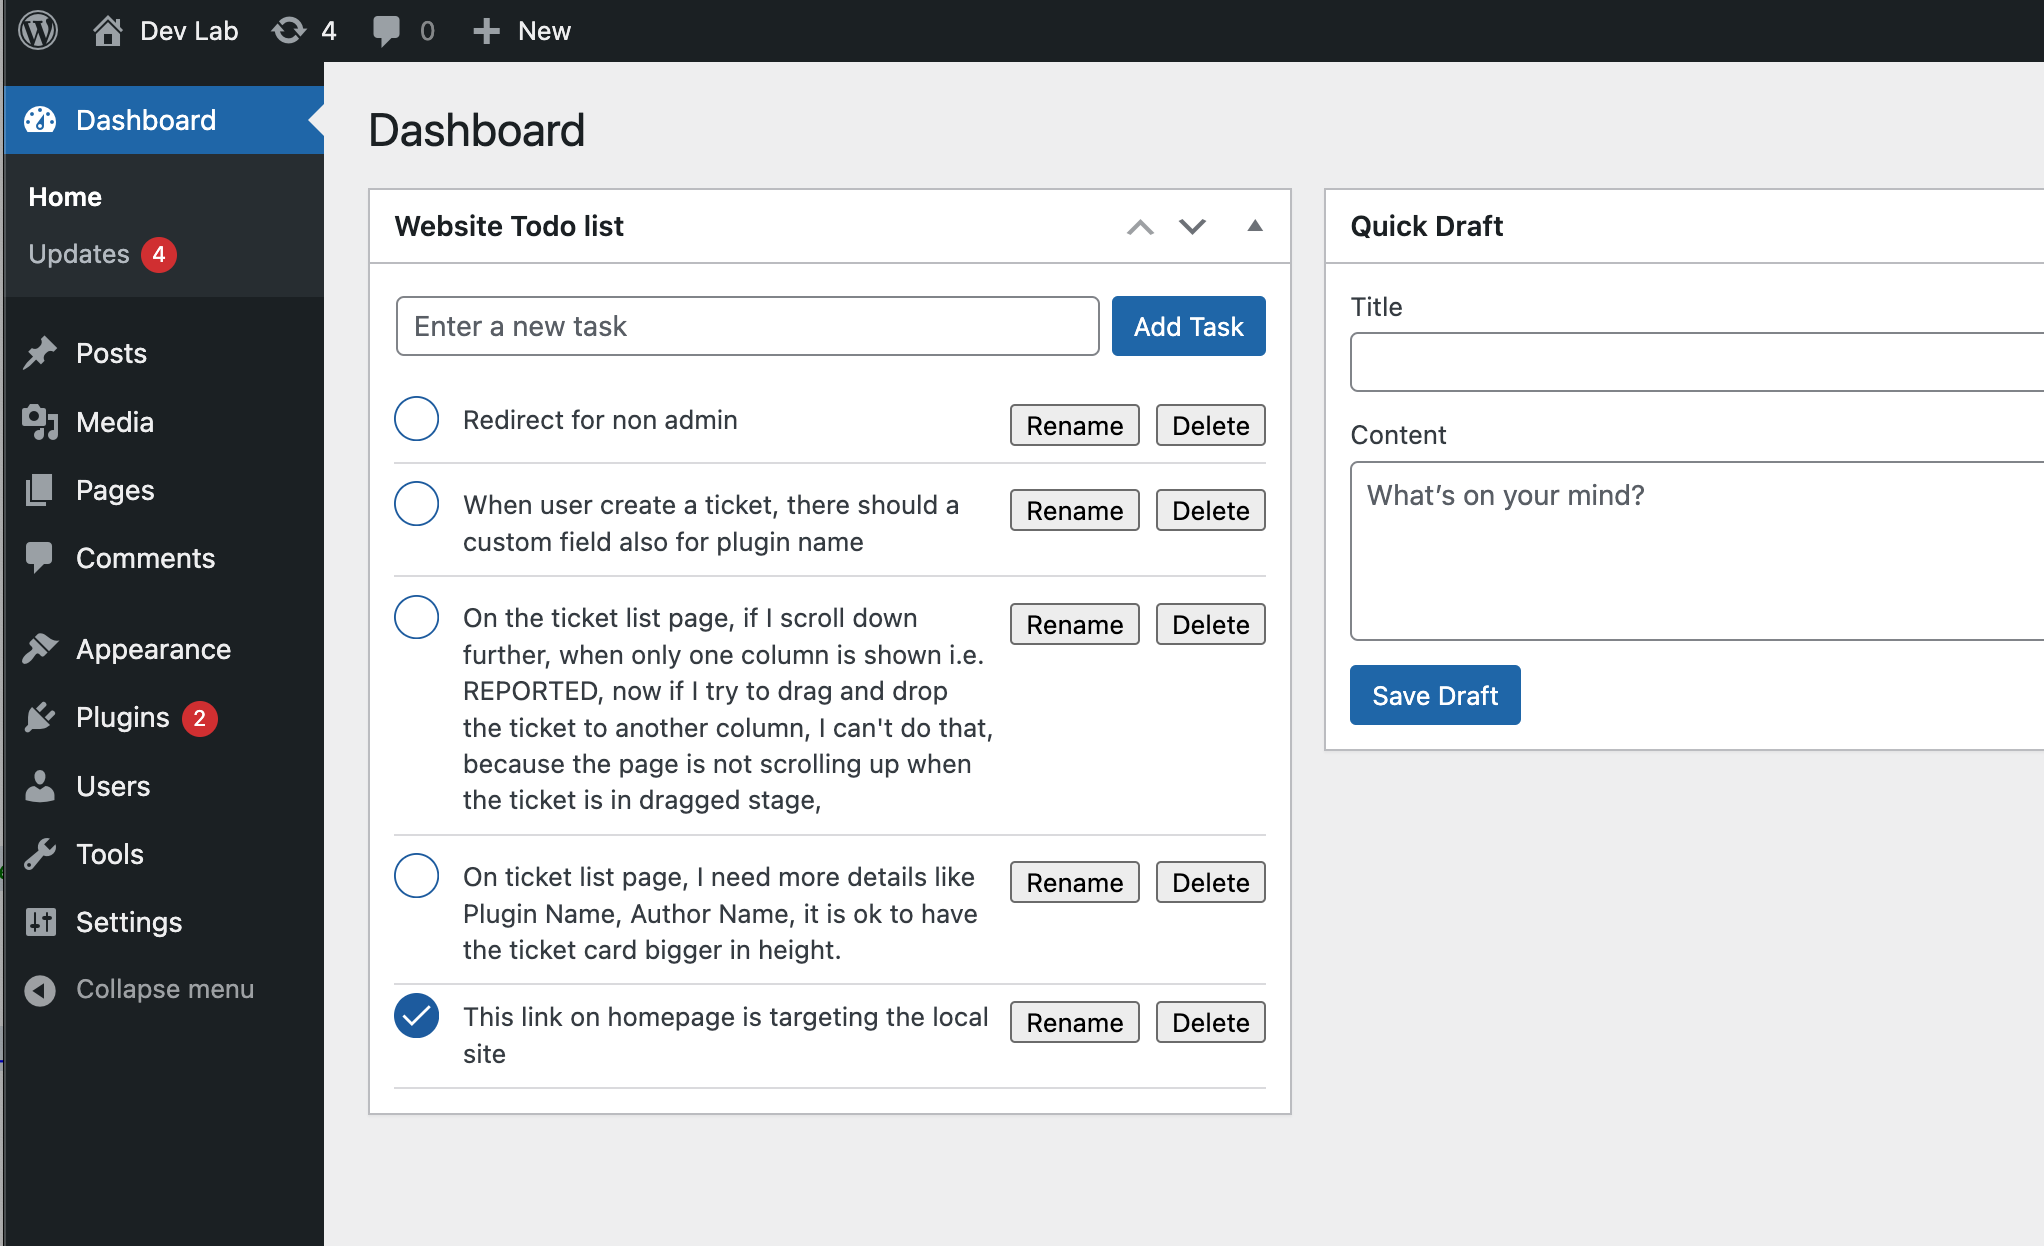
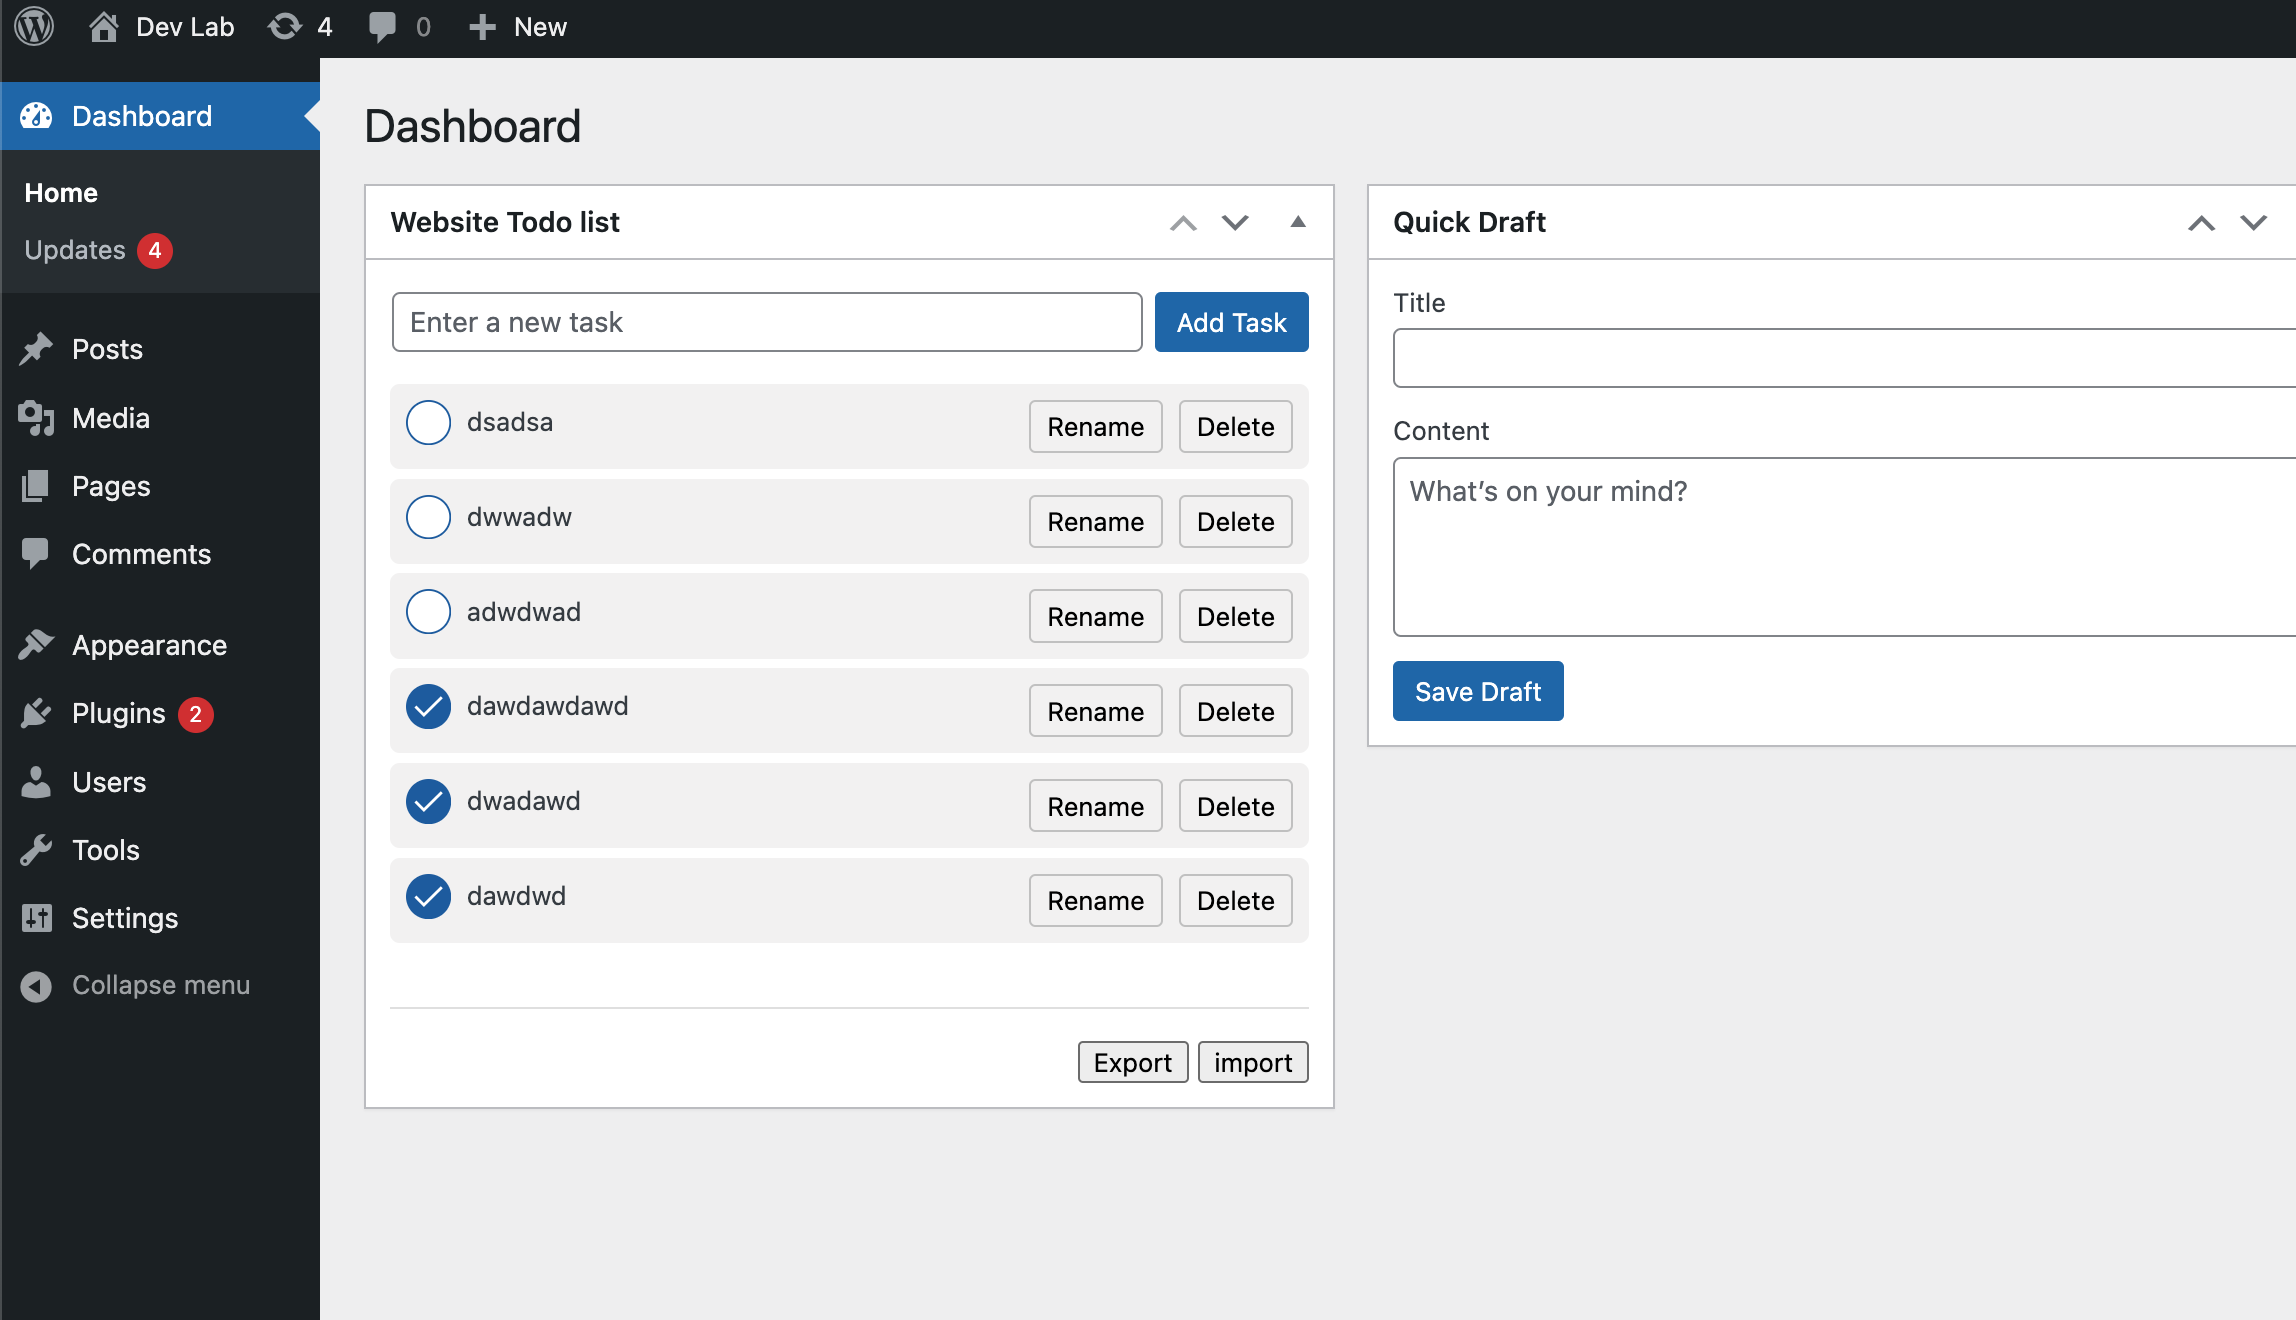
...

Changed region(s): [[0.0, 0.0, 1.0, 1.0], [0.3082, 0.3355, 0.339, 0.366], [0.2466, 0.3355, 0.2774, 0.366]]

diff --git a/css/todo-list.css b/css/todo-list.css
@@ -1,1 +1,1 @@
-#add-task{display:flex;gap:.3rem;margin:1rem 0}#add-task input{flex-grow:1}.tasks-list{display:grid;gap:.3rem;margin:0;margin-bottom:.3rem}.tasks-list li{display:flex;align-items:flex-start;gap:.5rem;background:#f4f3f3;border-radius:.3rem;padding:.5rem;margin:0}.tasks-list li button{background-color:rgba(0,0,0,0);border:1px solid #c7c7c7;outline:0;padding:.3rem .5rem;border-radius:.2rem;cursor:pointer}.tasks-list li button:hover{background-color:#fff}.task{flex-grow:1;margin-top:.1rem}.task:hover{cursor:grab}.task-rename-field{flex-grow:1}.tasks-list input[type=checkbox]{position:relative;-moz-appearance:none;appearance:none;-webkit-appearance:none;width:1.4rem;min-width:1.4rem;height:1.4rem;border-radius:0;outline:none;cursor:pointer;border:0;box-shadow:none;margin:0rem}.tasks-list input[type=checkbox]:checked{background-image:url("../img/check.svg");background-color:rgba(0,0,0,0);background-size:cover}.tasks-list input[type=checkbox]:checked::before{display:none}.tasks-list input[type=checkbox]:not(:checked){background-color:rgba(0,0,0,0);background-image:url("../img/uncheck.svg");background-size:cover}#export-import{display:flex;gap:.3rem;justify-content:flex-end}#import-todo-popup--bg{position:fixed;z-index:10;background:rgba(0,0,0,.6);left:0;top:0;width:100%;height:100vh;display:none;justify-content:center;padding-top:100px}#import-todo-popup{background-color:#fff;display:block;width:600px;height:-moz-fit-content;height:fit-content;padding:2rem}#import-todo-drop{border:1px solid blue;width:100%;height:150px;display:flex;align-items:center;justify-content:center;margin:1rem 0}/*# sourceMappingURL=todo-list.css.map */
+#add-task{display:flex;gap:.3rem;margin:1rem 0}#add-task input{flex-grow:1}.tasks-list{display:grid;gap:.3rem;margin:0;margin-bottom:.3rem}.tasks-list li{display:flex;align-items:flex-start;gap:.5rem;background:#f4f3f3;border-radius:.3rem;padding:.5rem;margin:0}.tasks-list li button{background-color:rgba(0,0,0,0);border:1px solid #c7c7c7;outline:0;padding:.3rem .5rem;border-radius:.2rem;cursor:pointer}.tasks-list li button:hover{background-color:#fff}.task{flex-grow:1;margin-top:.1rem}.task:hover{cursor:grab}.task-rename-field{flex-grow:1}.tasks-list input[type=checkbox]{position:relative;-moz-appearance:none;appearance:none;-webkit-appearance:none;width:1.4rem;min-width:1.4rem;height:1.4rem;border-radius:0;outline:none;cursor:pointer;border:0;box-shadow:none;margin:0rem}.tasks-list input[type=checkbox]:checked{background-image:url("../img/check.svg");background-color:rgba(0,0,0,0);background-size:cover}.tasks-list input[type=checkbox]:checked::before{display:none}.tasks-list input[type=checkbox]:not(:checked){background-color:rgba(0,0,0,0);background-image:url("../img/uncheck.svg");background-size:cover}#export-import{border-top:1px solid #e3e3e3;padding-top:1rem;display:flex;gap:.3rem;justify-content:flex-end;margin:2rem 0 0 0}#import-todo-popup--bg{position:fixed;z-index:10;background:rgba(0,0,0,.6);left:0;top:0;width:100%;height:100vh;display:none;justify-content:center;padding-top:100px}#import-todo-popup{background-color:#fff;display:block;width:600px;height:-moz-fit-content;height:fit-content;padding:2rem}#import-todo-drop{border:1px solid blue;width:100%;height:150px;display:flex;align-items:center;justify-content:center;margin:1rem 0}/*# sourceMappingURL=todo-list.css.map */

diff --git a/css/todo-list.scss b/css/todo-list.scss
@@ -89,9 +89,12 @@
 }
 
 #export-import{
+    border-top: 1px solid rgb(227, 227, 227);
+    padding-top: 1rem;
     display: flex;
     gap: 0.3rem;
     justify-content: flex-end;
+    margin: 2rem 0 0 0;
 }
 
 #import-todo-popup--bg{
